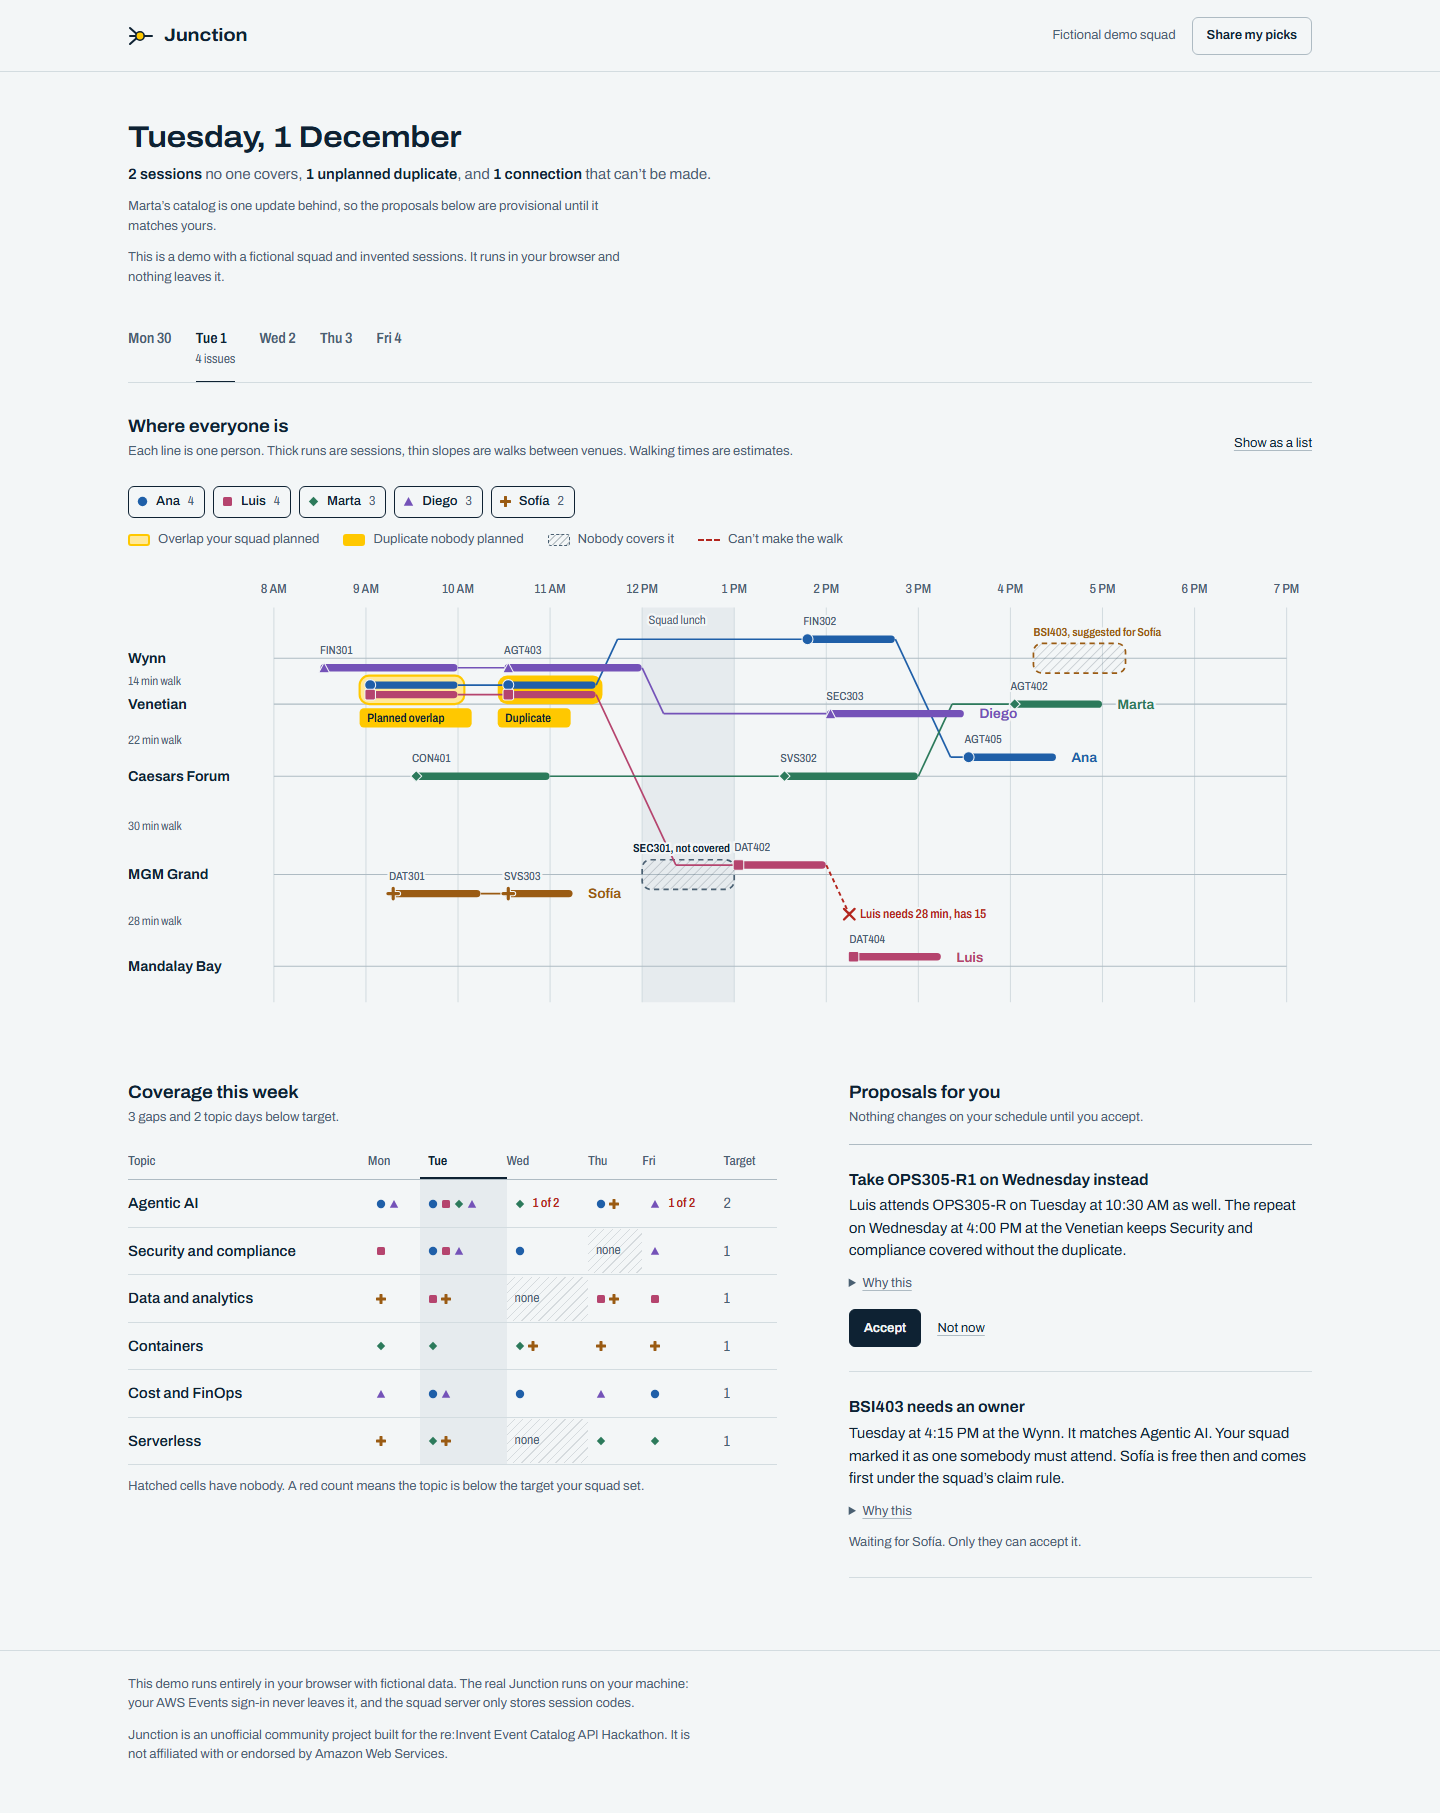
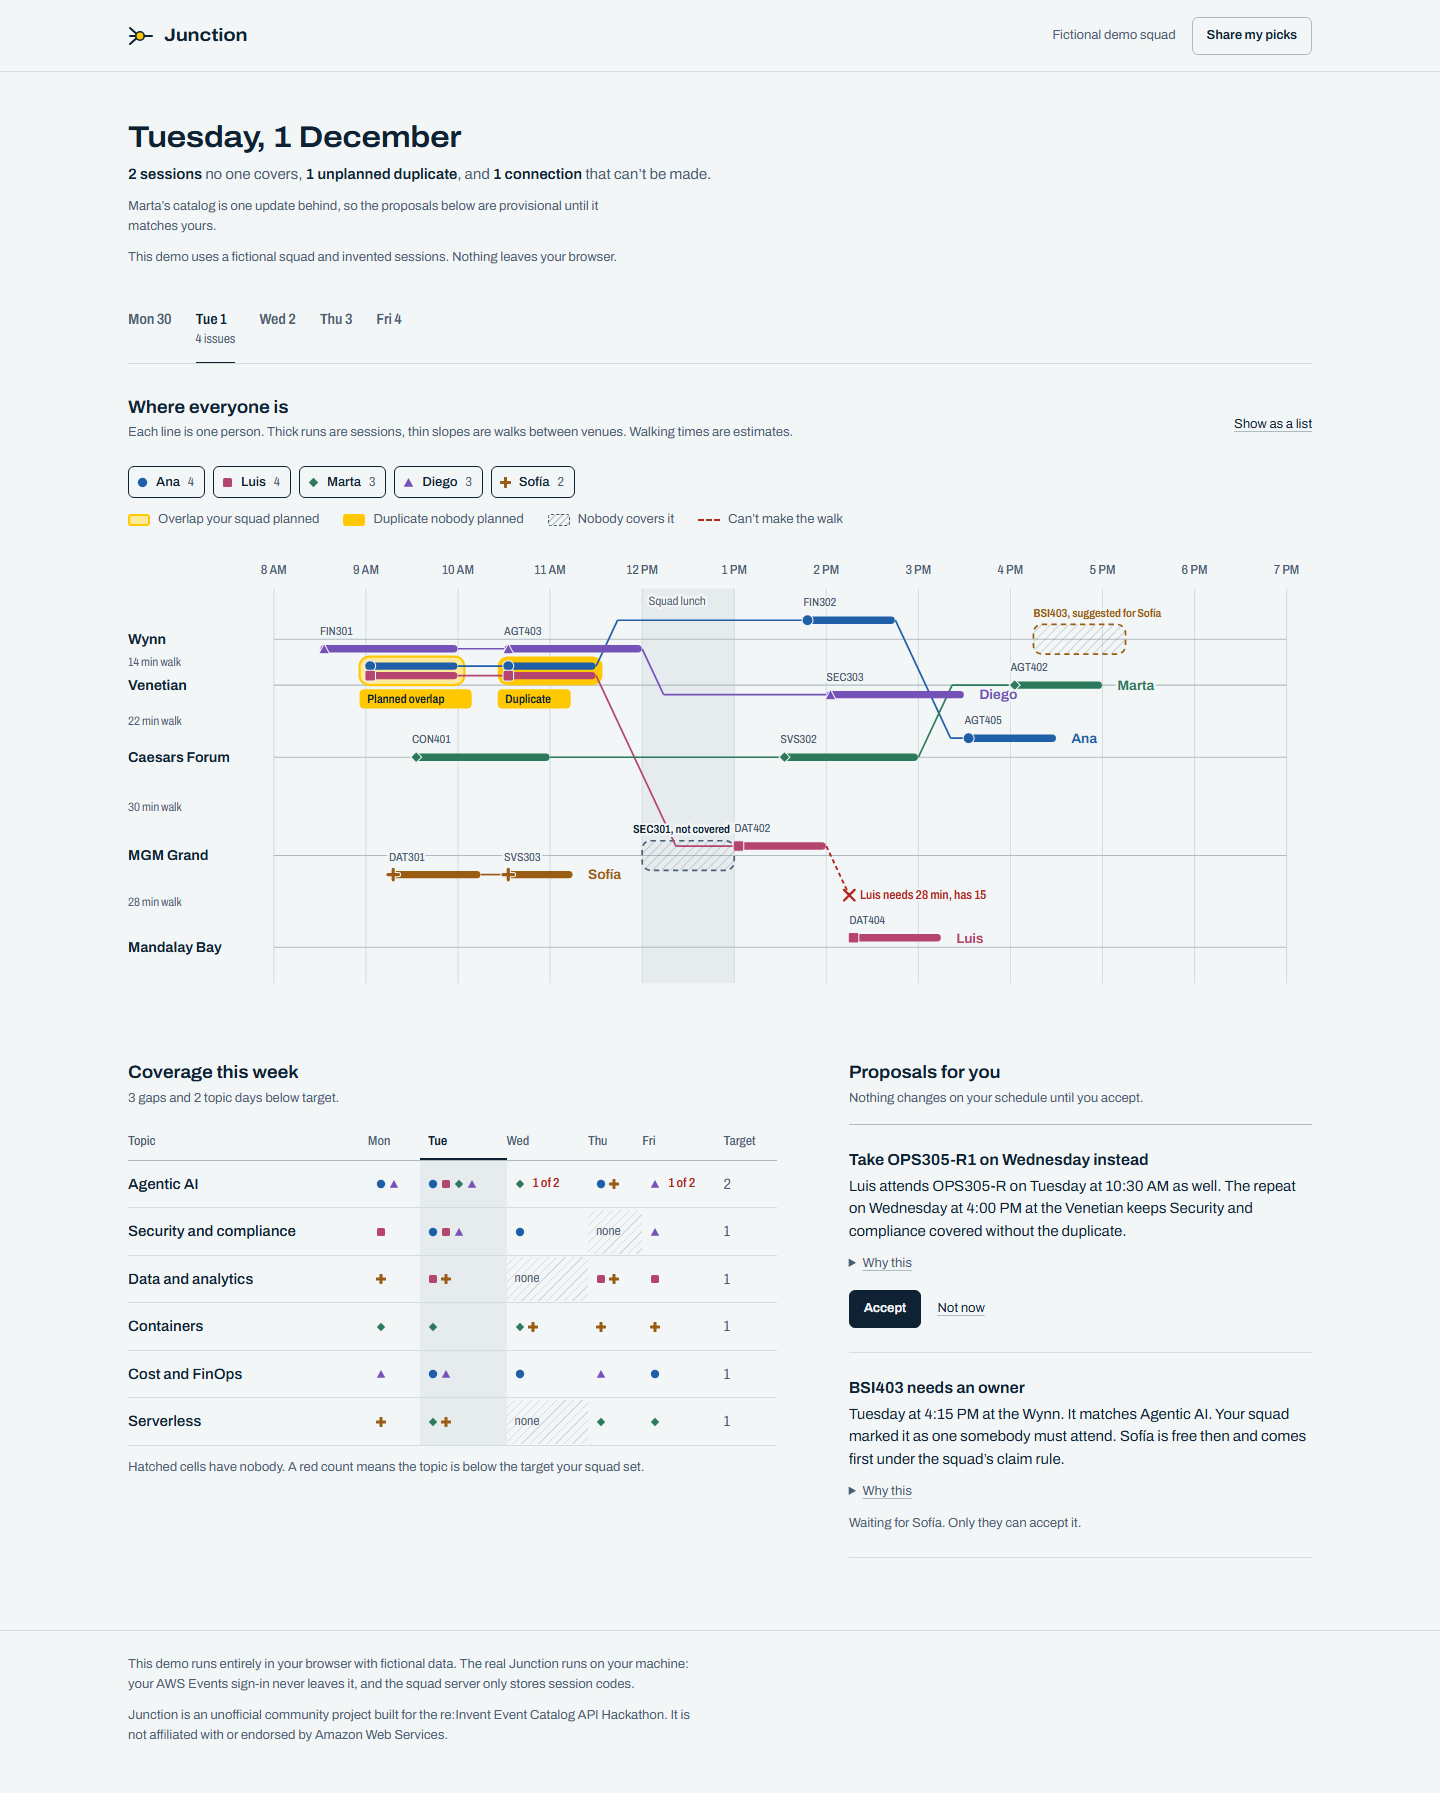
fix(web): plainer undo and demo result copy, record ADR-017

diff --git a/packages/web/src/components/Proposals.tsx b/packages/web/src/components/Proposals.tsx
@@ -2,7 +2,7 @@ import { useState } from 'react';
 import type { Proposal, SquadView } from '@junction/core';
 import { describeProposal, type ProposalText } from '../lib/proposals';
 import type { AppState, DataSource, SessionResult } from '../data/types';
-import { plural } from '../lib/format';
+import { nameList, plural } from '../lib/format';
 
 // Proposals as a plain list. Accepting writes to the attendee's own schedule through the local
 // agent; the outcome is shown per session, as the schedule confirms it, never as a bare "done".
@@ -100,10 +100,16 @@ export function Proposals({
       const out = await source.undo(s.proposal.id);
       setSettled((prev) => prev.filter((x) => x.proposal.id !== s.proposal.id));
       const failed = out.results.filter((r) => !r.ok).length;
+      const back = out.results.filter((r) => r.ok && r.action === 'add').map((r) => r.code);
+      const gone = out.results.filter((r) => r.ok && r.action === 'remove').map((r) => r.code);
+      const parts = [
+        back.length ? `${nameList(back)} ${back.length === 1 ? 'is' : 'are'} back on your schedule` : '',
+        gone.length ? `${nameList(gone)} ${gone.length === 1 ? 'is' : 'are'} released` : '',
+      ].filter(Boolean);
       setNotice({
         text:
           failed === 0
-            ? `Undone. ${s.text.title} is back to how it was.`
+            ? `Undone. ${parts.length ? `${parts.join(' and ')}.` : 'Your schedule is as it was.'}`
             : `Undo finished, but ${plural(failed, 'change', 'changes')} did not go through. Check the list.`,
         results: out.results,
       });

diff --git a/packages/web/src/data/demo.ts b/packages/web/src/data/demo.ts
@@ -52,14 +52,14 @@ function sessionResults(
       code: codeOf(id),
       action: 'add' as const,
       ok: true,
-      detail: 'Added to your schedule in this demo. Nothing was sent anywhere.',
+      detail: 'Demo only, nothing was sent.',
     })),
     ...removes.map((id) => ({
       sessionId: id,
       code: codeOf(id),
       action: 'remove' as const,
       ok: true,
-      detail: 'Released in this demo. Nothing was sent anywhere.',
+      detail: 'Demo only, nothing was sent.',
     })),
   ];
 }

diff --git a/docs/02-ARCHITECTURE.md b/docs/02-ARCHITECTURE.md
@@ -127,6 +127,7 @@ Estimated cost during the hackathon: under 5 USD a month, dominated by CloudFron
 | ADR-014 | Amplify Hosting for the static site, CDK for the backend | CI from GitHub with no hosting stacks to maintain, while signature checks and DynamoDB conditional writes stay in our own Lambda (Amplify Gen 2 data would put AppSync in front of them). |
 | ADR-015 | CI matrix on Linux, macOS and Windows, LF line endings enforced | Byte-identical solver output is the core promise and the author develops on Windows. `.gitattributes` forces LF so golden fixtures do not drift. |
 | ADR-016 | Local agent UI port is 4848, outside the OAuth callback range | 8484 is the first callback port and Claude Code's MCP setup uses it. |
+| ADR-017 | The web UI picks its data source at build time, and the demo build ships a `connect-src 'none'` CSP | `vite build` talks to the agent at `/api` with the `X-Junction-Secret` from the page's meta tag; `vite build --mode demo` (base `/demo/`) builds the `SquadView` in the browser from `fixtures/demo` with the same core functions. The CSP makes "the demo makes no network requests" something the browser enforces, and `npm run shots` fails if the demo requests anything outside its own files. |
 
 Add new records here as they are made.
 
